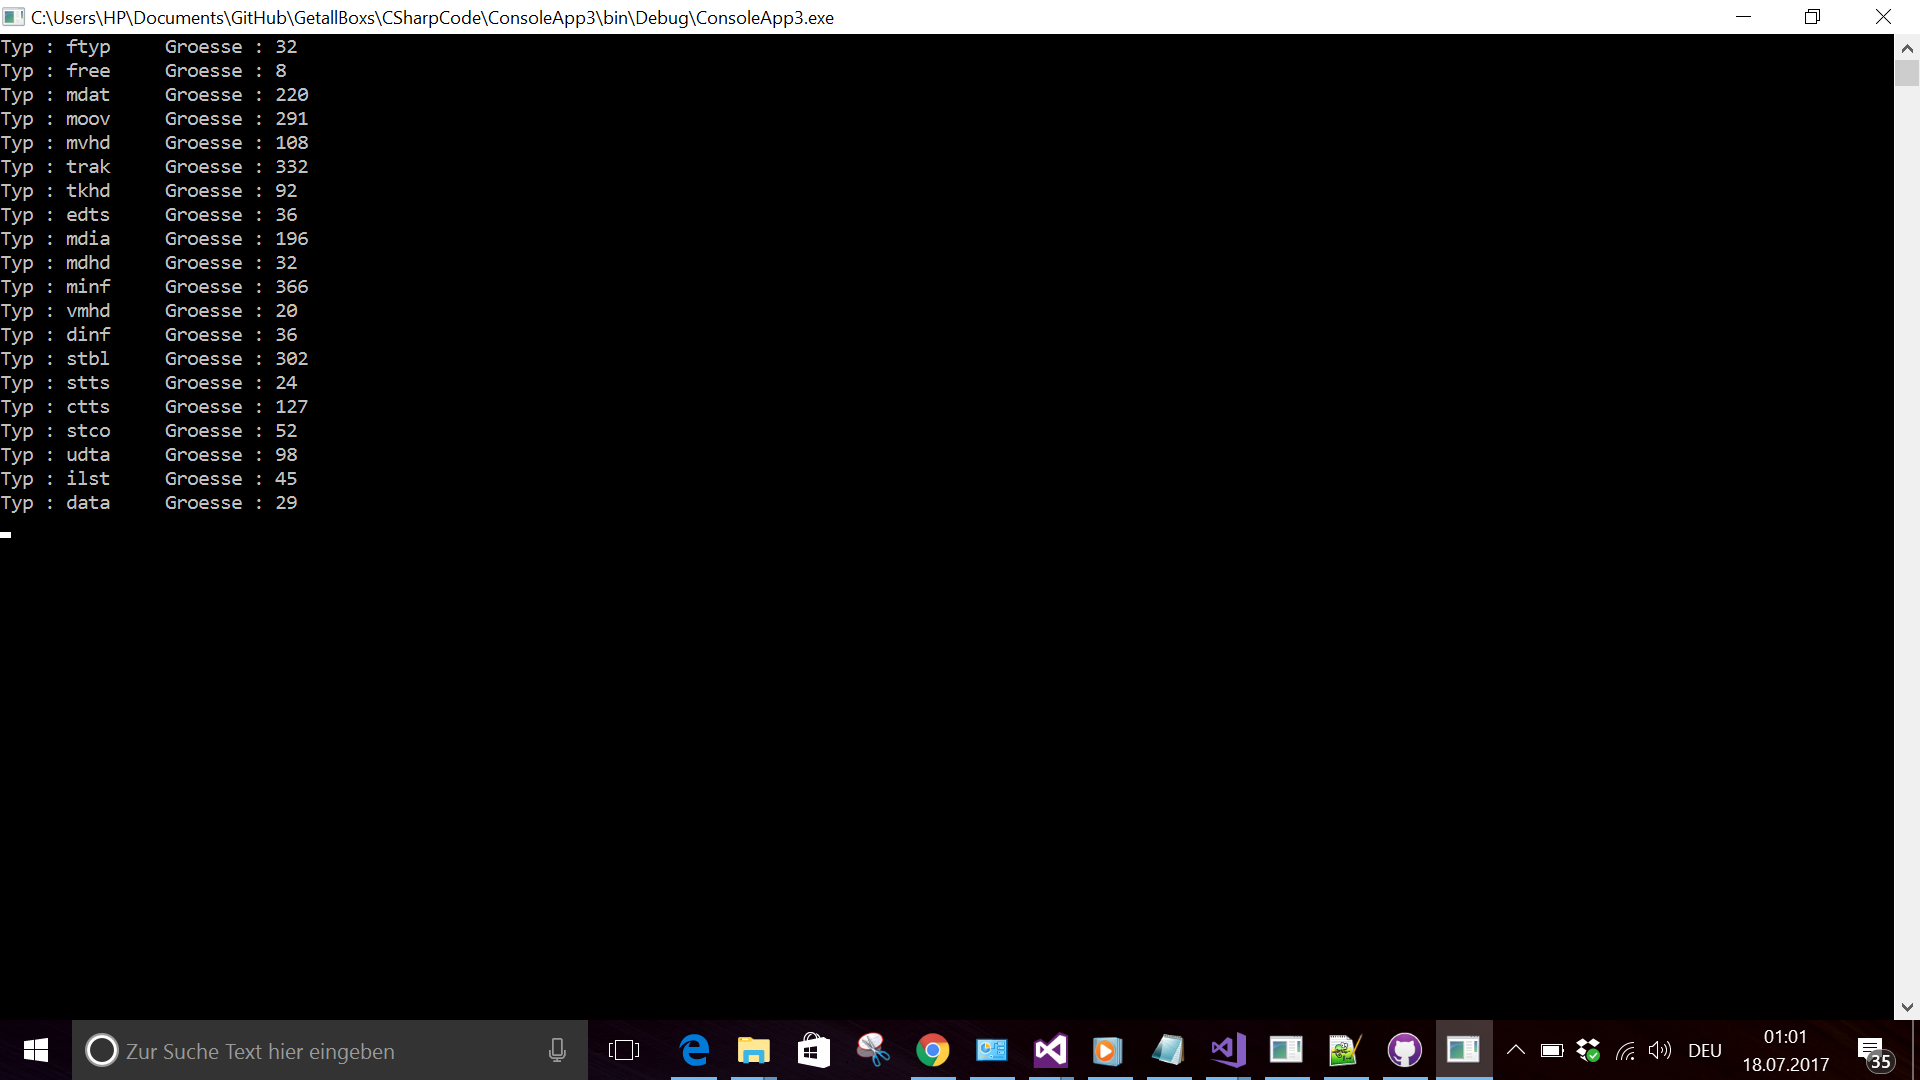
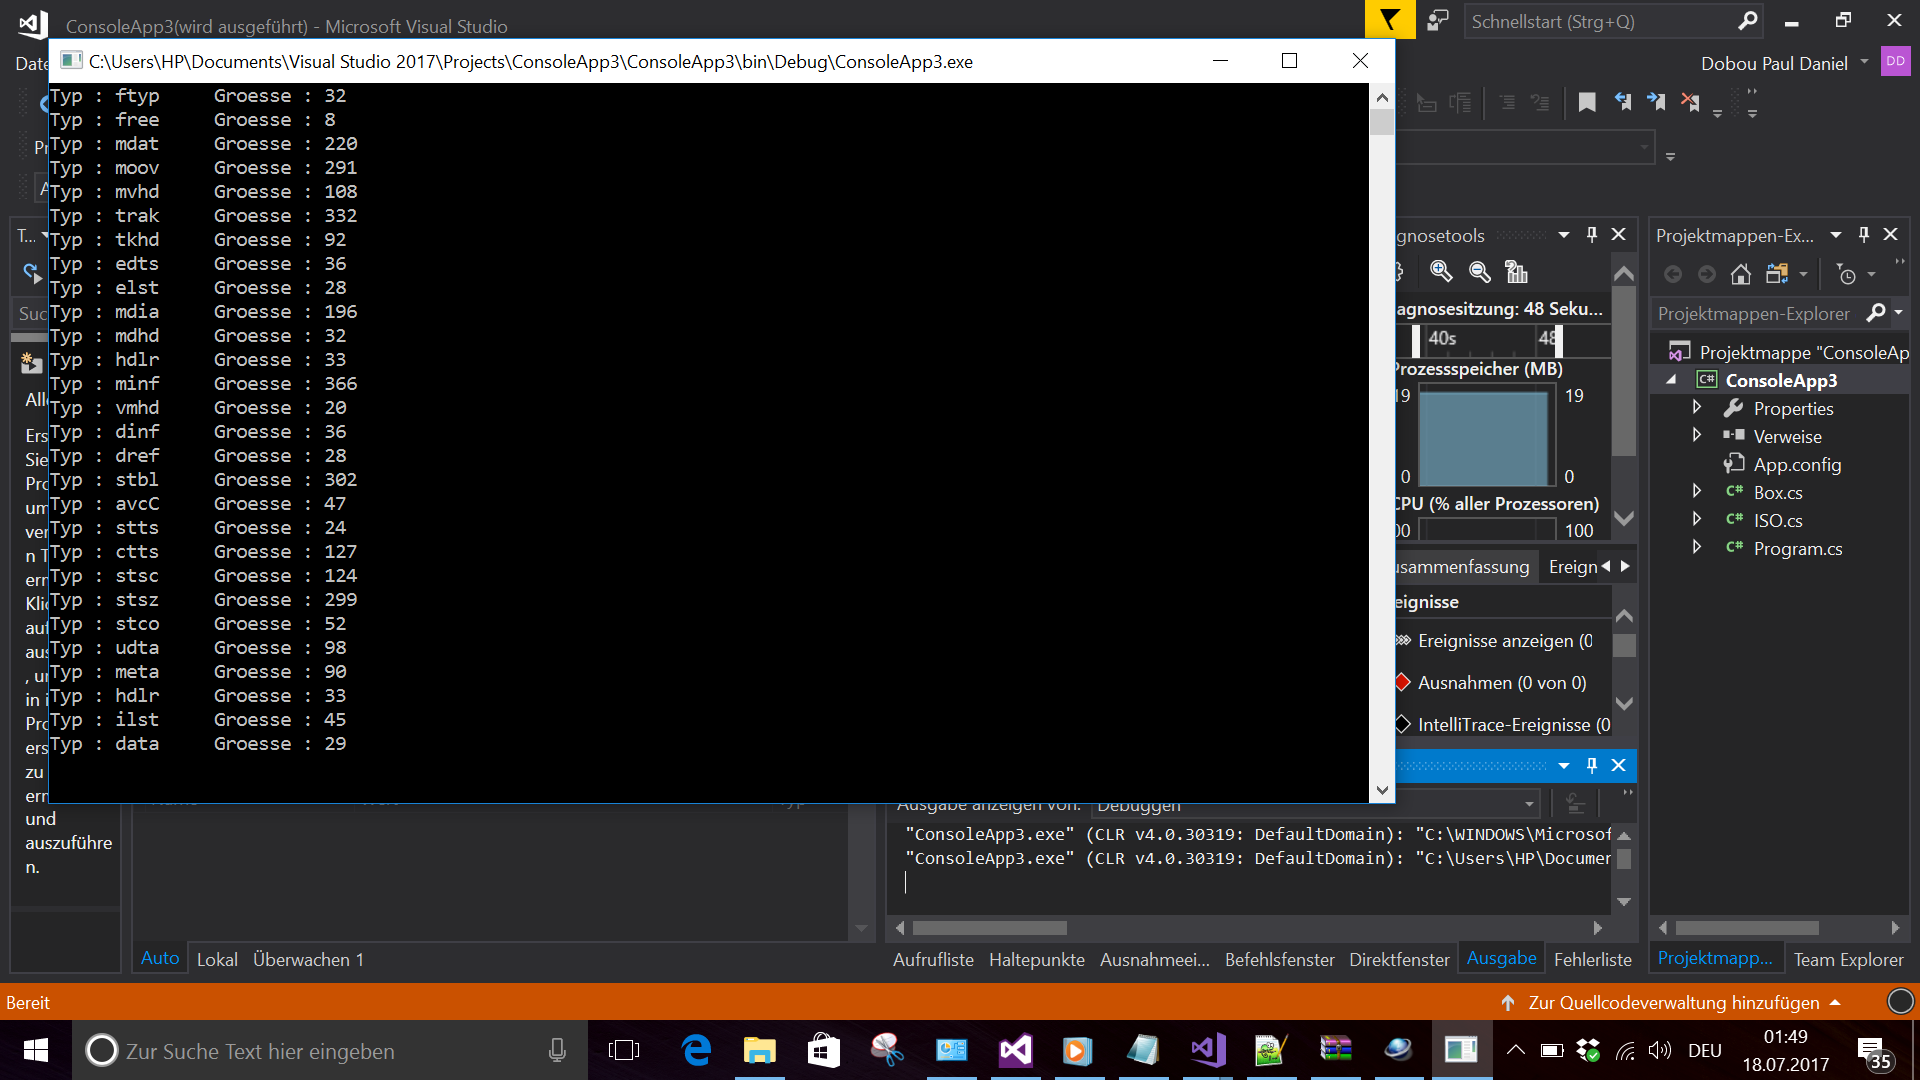
New Programm.cs

diff --git a/GetallBoxs/CSharpCode/ConsoleApp3/ConsoleApp3/Program.cs b/GetallBoxs/CSharpCode/ConsoleApp3/ConsoleApp3/Program.cs
@@ -25,7 +25,8 @@ namespace ConsoleApp3
                 new Box("geid"), new Box("cpil"), new Box("cprt"), new Box("gnre"), new Box("ilst"),
                 new Box("minf"), new Box("hnti"), new Box("matt"), new Box("mdia"), new Box("moof"),
                 new Box("hinf"), new Box("pinf"), new Box("plid"), new Box("rtng"), new Box("schi"),
-                new Box("stbl"), new Box("sinf"), new Box("stik"), new Box("tmpo"), new Box("traf"),
+                new Box("stbl"), new Box("sinf"), new Box("stik"), new Box("tmpo"), new Box("traf"), new Box("stsc"), new Box("stsz"), new Box("meta"),new Box("hdlr"),
+                new Box("avcC"),new Box("dref"),new Box("elst"),
                 new Box("trak"), new Box("trkn"), new Box("udta")
             };
 
